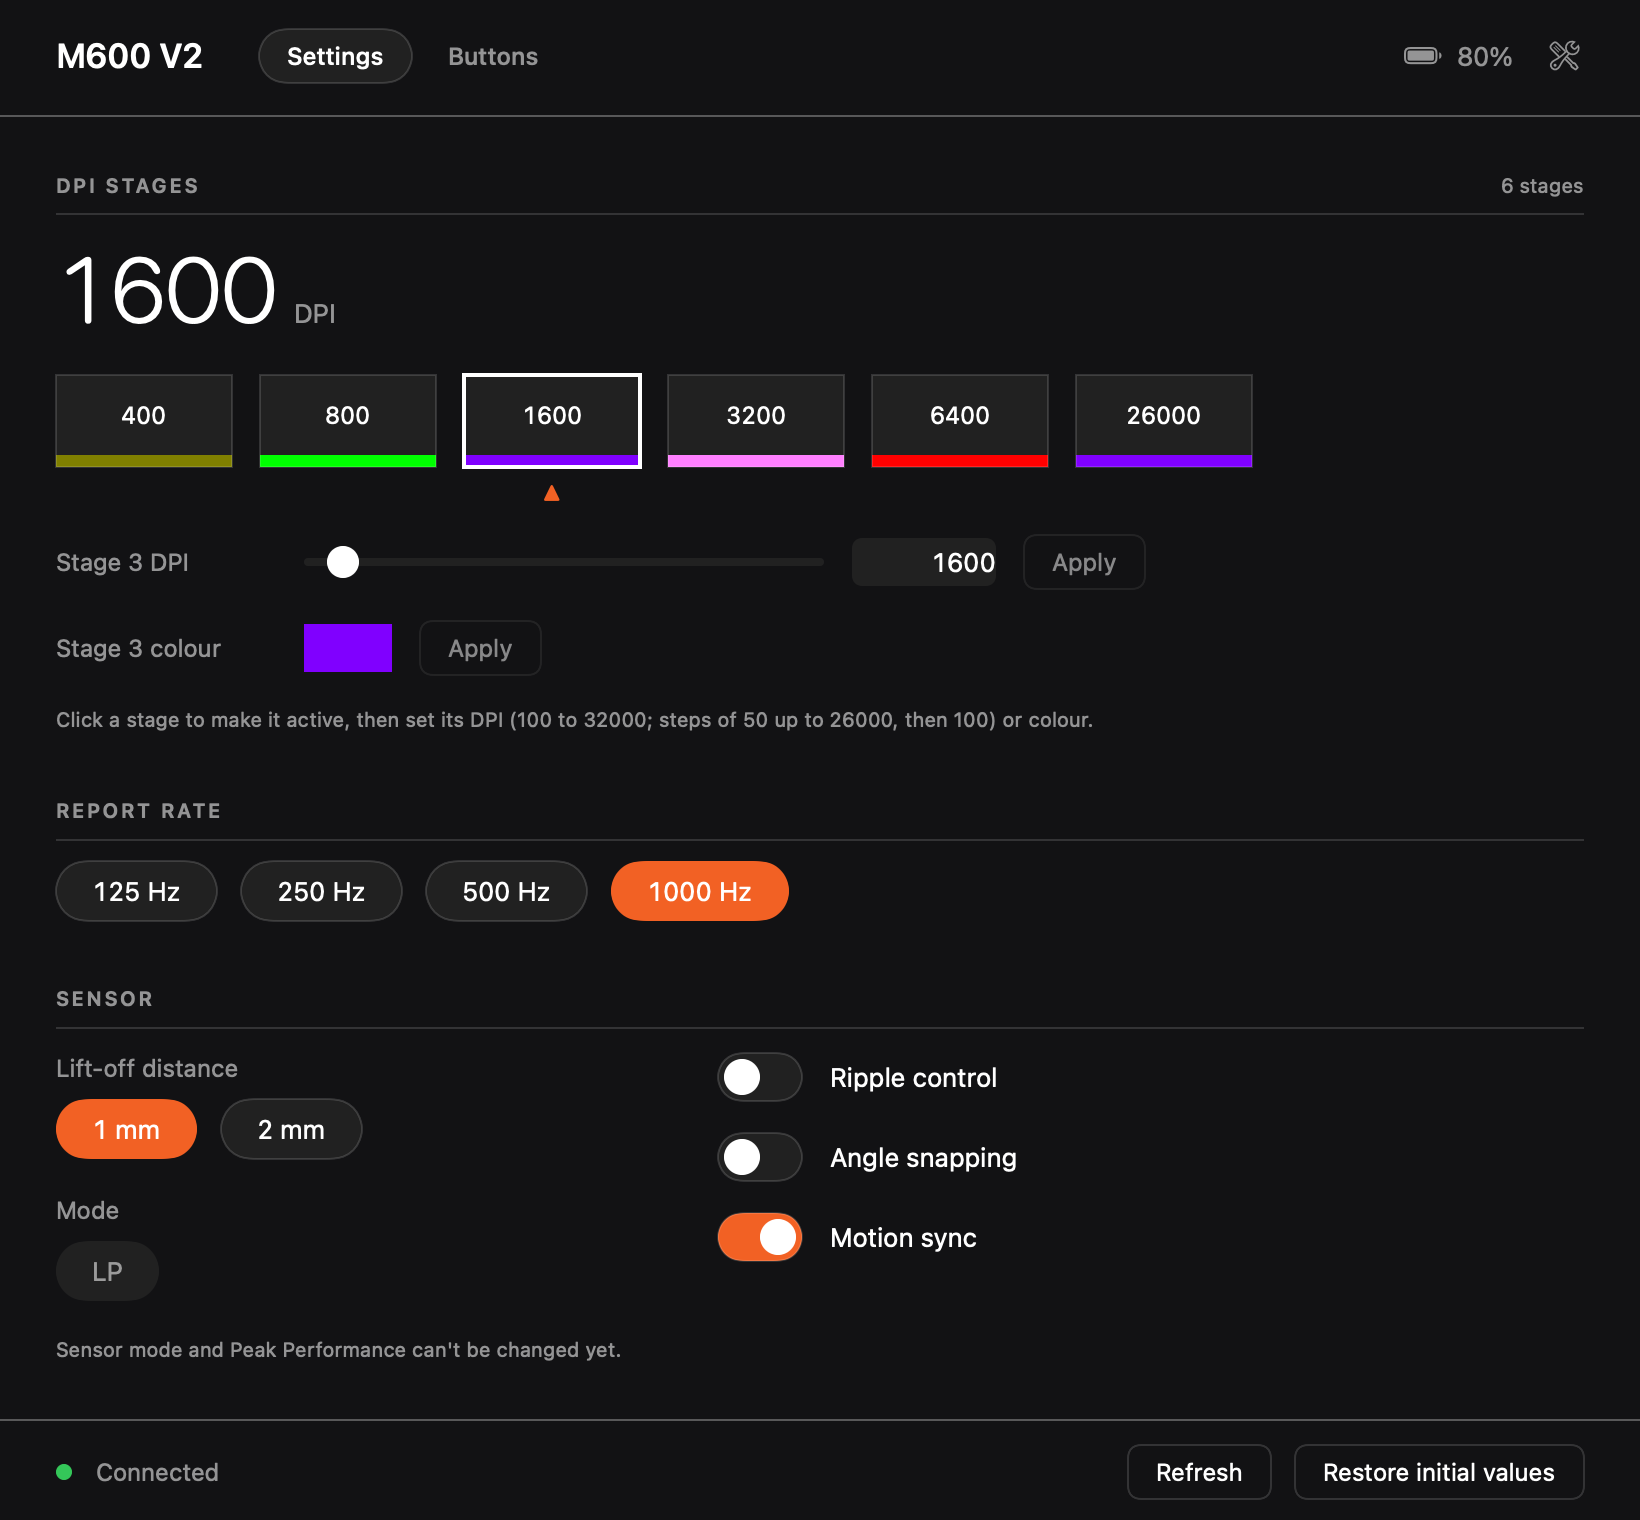
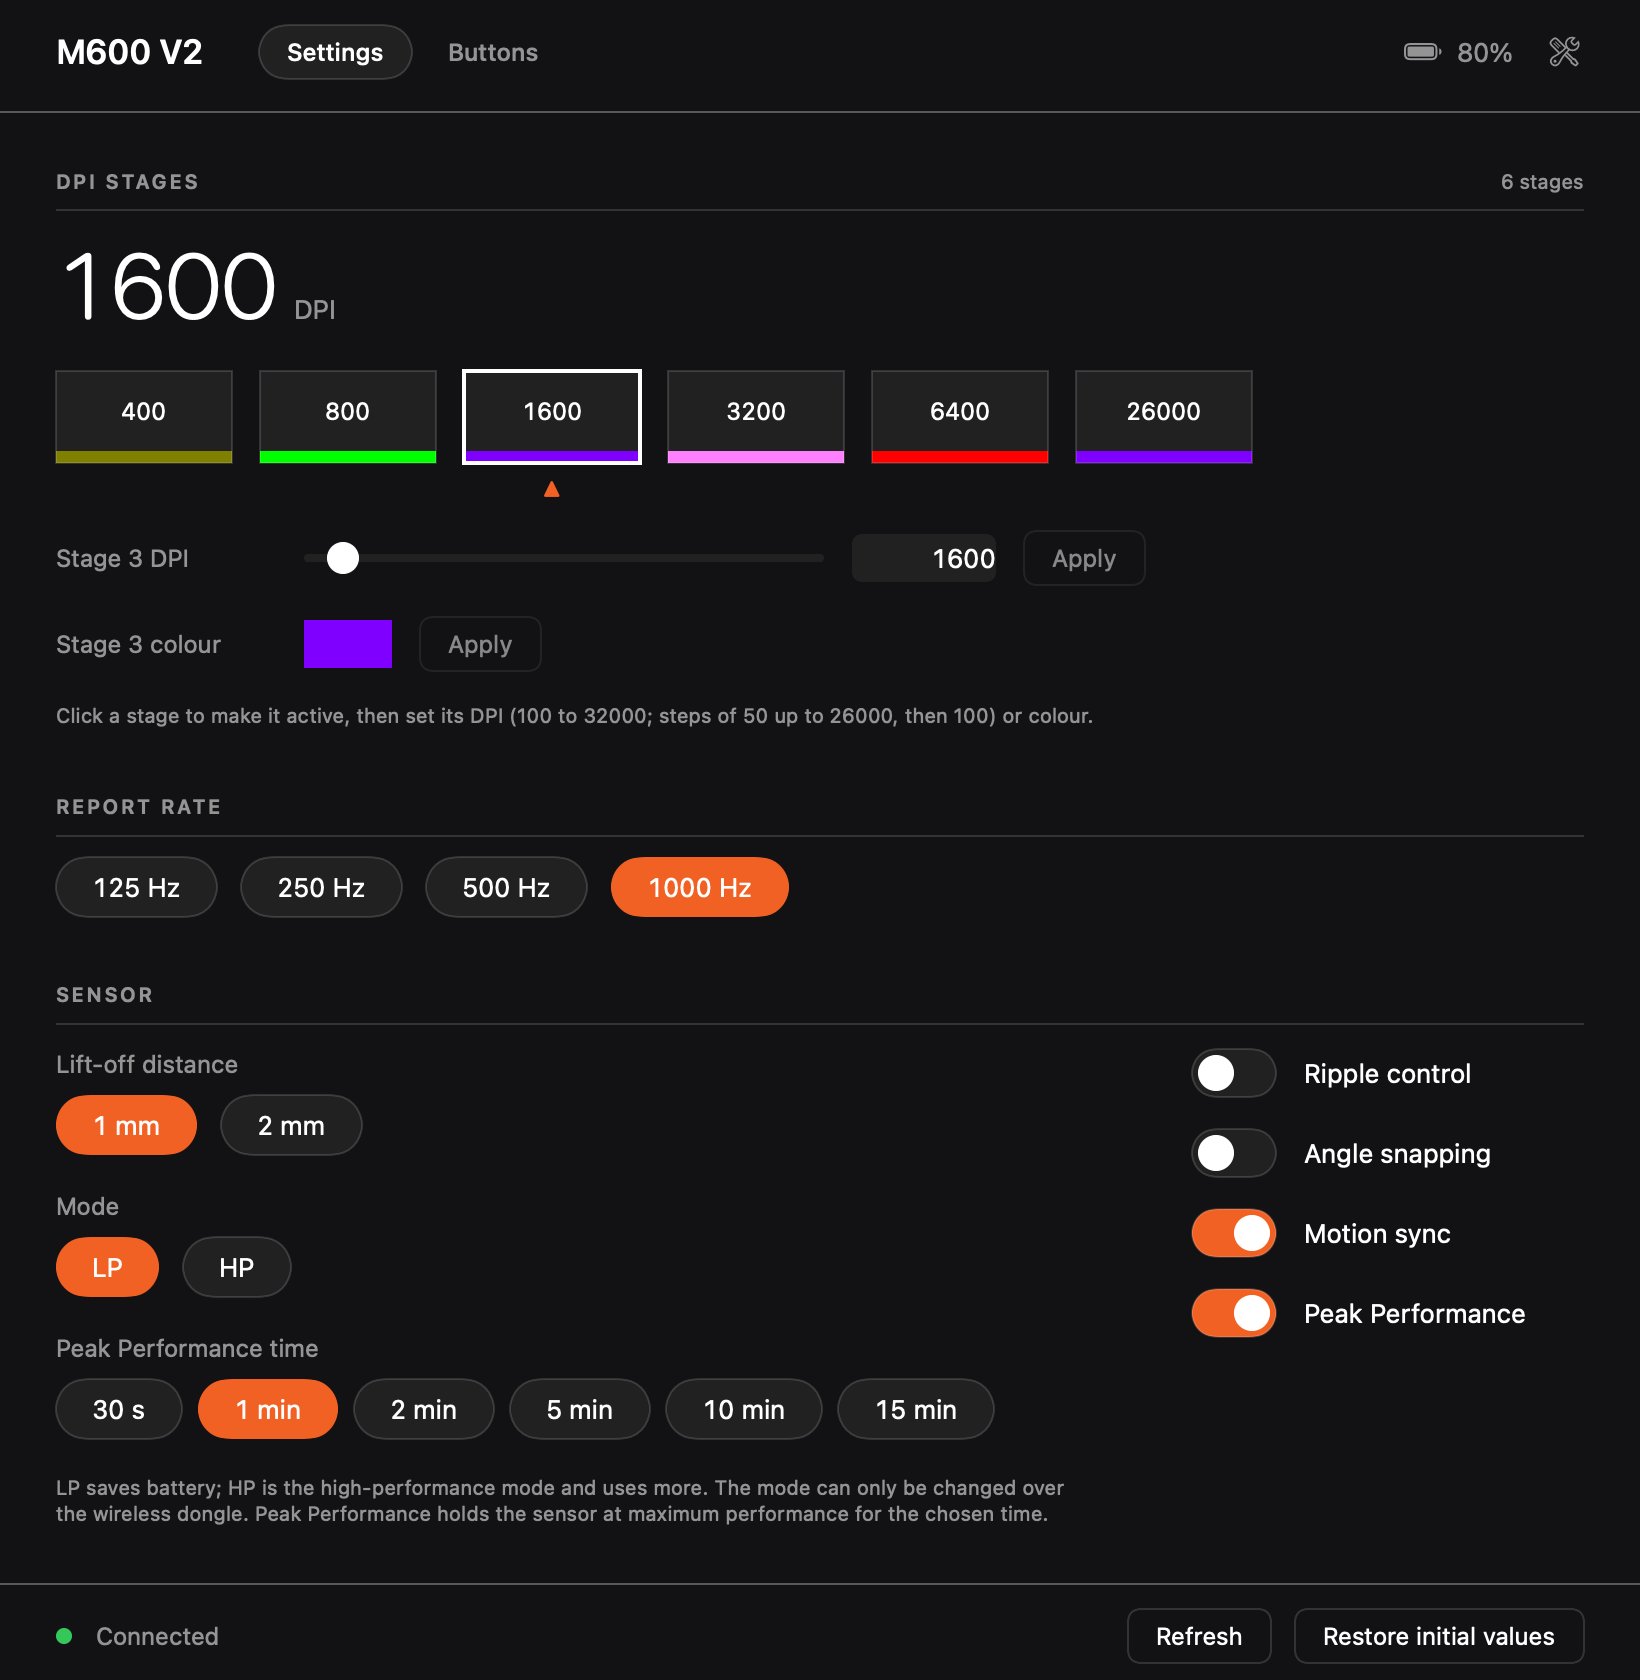
Add sensor mode (LP/HP) and Peak Performance controls
Registers and option values come from the vendor app's data model and language
file: sensor mode at 0xB9 (0 LP, 1 HP, 10 corded read-only), Peak Performance
on/off at 0xB5 and duration at 0xB7 (units of 10 s, 30 s to 15 min). Writes are
verified by echo and read-back and covered by Restore initial values. HP write
confirmed on the mouse.

diff --git a/Sources/OpenMouseApp/AppModel.swift b/Sources/OpenMouseApp/AppModel.swift
@@ -80,7 +80,10 @@ final class AppModel: ObservableObject {
         var motionSync: UInt8
         var angleSnapping: UInt8
         var rippleControl: UInt8
-        var sensorMode: UInt8   // 0 = LP; HP value unconfirmed, so read-only
+        var sensorMode: UInt8   // 0 = LP, 1 = HP, 10 = corded (read-only)
+        /// Nil if the mouse didn't answer these with a valid checksum.
+        var peakPerformance: UInt8?
+        var peakTime: UInt8?
     }
 
     @Published var settings: SettingsSnapshot?
@@ -106,7 +109,9 @@ final class AppModel: ObservableObject {
         }
         return SettingsSnapshot(reportRate: v[.reportRate]!, dpiStage: v[.currentDPIIndex]!, lod: v[.lod]!,
                                 motionSync: v[.motionSync]!, angleSnapping: v[.angleSnapping]!,
-                                rippleControl: v[.rippleControl]!, sensorMode: v[.sensorMode]!)
+                                rippleControl: v[.rippleControl]!, sensorMode: v[.sensorMode]!,
+                                peakPerformance: try await device.readValue(.peakPerformance),
+                                peakTime: try await device.readValue(.peakPerformanceTime))
     }
 
     func refreshSettings() {
@@ -241,8 +246,11 @@ final class AppModel: ObservableObject {
                     (.lod, "LOD", now.lod, target.lod),
                     (.motionSync, "motion sync", now.motionSync, target.motionSync),
                     (.angleSnapping, "angle snapping", now.angleSnapping, target.angleSnapping),
-                    (.rippleControl, "ripple control", now.rippleControl, target.rippleControl)]
-                for (setting, name, current, wanted) in pairs where current != wanted {
+                    (.rippleControl, "ripple control", now.rippleControl, target.rippleControl),
+                    (.sensorMode, "sensor mode", now.sensorMode, target.sensorMode),
+                    (.peakPerformance, "peak performance", now.peakPerformance ?? 0, target.peakPerformance ?? 0),
+                    (.peakPerformanceTime, "peak performance time", now.peakTime ?? 0, target.peakTime ?? 0)]
+                for (setting, name, current, wanted) in pairs where current != wanted && setting.accepts(wanted) {
                     try await writeAndVerify(setting, wanted, name: name)
                 }
                 settings = try await loadSettings()
@@ -281,7 +289,8 @@ final class AppModel: ObservableObject {
                 }
                 for (name, setting) in [("LOD (1=1mm, 2=2mm)", MouseSetting.lod),
                                         ("motion sync", .motionSync), ("angle snapping", .angleSnapping),
-                                        ("ripple control", .rippleControl), ("sensor mode (0=LP)", .sensorMode)] {
+                                        ("ripple control", .rippleControl), ("sensor mode (0=LP, 1=HP, 10=corded)", .sensorMode),
+                                        ("peak performance", .peakPerformance), ("peak performance time (x10 s)", .peakPerformanceTime)] {
                     let v = try await device.readValue(setting)
                     append("\(name): \(v.map(String.init) ?? "bad checksum")")
                 }
@@ -311,7 +320,8 @@ extension AppModel {
         m.isOpen = true
         m.status = "Connected"
         m.settings = SettingsSnapshot(reportRate: 0x01, dpiStage: 2, lod: 1, motionSync: 1,
-                                      angleSnapping: 0, rippleControl: 0, sensorMode: 0)
+                                      angleSnapping: 0, rippleControl: 0, sensorMode: 0,
+                                      peakPerformance: 1, peakTime: 6)
         let table: [(Int, UInt8, UInt8, UInt8)] = [(400, 0x80, 0x80, 0), (800, 0, 0xFF, 0), (1600, 0x80, 0, 0xFF),
                                                    (3200, 0xFF, 0x80, 0xFF), (6400, 0xFF, 0, 0), (26000, 0x80, 0, 0xFF)]
         m.stages = table.map { MouseDevice.Stage(dpi: DPIEntry(x: $0.0, y: $0.0), color: DPIColor(r: $0.1, g: $0.2, b: $0.3)) }

diff --git a/Sources/OpenMouseApp/MouseView.swift b/Sources/OpenMouseApp/MouseView.swift
@@ -278,26 +278,40 @@ struct MouseView: View {
                         }
                     }
                     labelled("Mode") {
-                        Text(sensorModeText).padding(.horizontal, 18).padding(.vertical, 7)
-                            .background(Theme.panel, in: Capsule()).foregroundStyle(Theme.dim)
+                        HStack(spacing: 12) {
+                            pill("LP", selected: model.settings?.sensorMode == 0) { model.change(.sensorMode, to: 0, name: "sensor mode") }
+                            pill("HP", selected: model.settings?.sensorMode == 1) { model.change(.sensorMode, to: 1, name: "sensor mode") }
+                            if let mode = model.settings?.sensorMode, mode > 1 {
+                                Text(mode == 10 ? "Corded" : "Mode \(mode)").foregroundStyle(Theme.dim)
+                            }
+                        }
                     }
-                    Text("Sensor mode and Peak Performance can't be changed yet.")
+                    if let peak = model.settings?.peakPerformance {
+                        labelled("Peak Performance time") {
+                            HStack(spacing: 8) {
+                                ForEach(PeakDuration.allCases, id: \.rawValue) { d in
+                                    pill(d.title, selected: model.settings?.peakTime == d.rawValue) {
+                                        model.change(.peakPerformanceTime, to: d.rawValue, name: "peak performance time")
+                                    }
+                                    .disabled(peak == 0)
+                                }
+                            }
+                        }
+                    }
+                    Text("LP saves battery; HP is the high-performance mode and uses more. The mode can only be changed over the wireless dongle. Peak Performance holds the sensor at maximum performance for the chosen time.")
                         .font(.caption).foregroundStyle(Theme.dim)
+                        .fixedSize(horizontal: false, vertical: true)
+                        .frame(maxWidth: 520, alignment: .leading)
                 }
                 VStack(alignment: .leading, spacing: 16) {
                     switchRow("Ripple control", model.settings?.rippleControl, .rippleControl)
                     switchRow("Angle snapping", model.settings?.angleSnapping, .angleSnapping)
                     switchRow("Motion sync", model.settings?.motionSync, .motionSync)
+                    if model.settings?.peakPerformance != nil {
+                        switchRow("Peak Performance", model.settings?.peakPerformance, .peakPerformance)
+                    }
                 }
             }
-        }
-    }
-
-    private var sensorModeText: String {
-        switch model.settings?.sensorMode {
-        case 0: return "LP"
-        case .some(let v): return "Mode \(v)"
-        case nil: return "–"
         }
     }
 

diff --git a/Sources/OpenMouseKit/Protocol.swift b/Sources/OpenMouseKit/Protocol.swift
@@ -94,19 +94,23 @@ public enum Protocol {
         case motionSync = 0x00AB       // 1 = on
         case angleSnapping = 0x00AF    // 1 = on
         case rippleControl = 0x00B1    // 1 = on
-        /// 0 = LP (read back as 00). The app sent 01 (HP) while the mouse was asleep, got no
-        /// acknowledgement and reverted, so 01 = HP is unconfirmed.
+        /// 0 = LP, 1 = HP (vendor app's language file); 10 = corded, which the vendor app shows
+        /// but never writes. Only changeable over the wireless dongle.
         case sensorMode = 0x00B9
+        /// Peak Performance on/off (`sensorCustomSleepTimeEnable` in the vendor app's data model).
+        case peakPerformance = 0x00B5
+        /// How long Peak Performance lasts, a `PeakDuration` value (`sensorSleepTime`).
+        case peakPerformanceTime = 0x00B7
 
         /// Values the vendor app was seen to write (or that are valid for the control).
-        /// Sensor mode is never accepted: its HP value is unconfirmed.
         public func accepts(_ value: UInt8) -> Bool {
             switch self {
             case .reportRate: return ReportRate(rawValue: value) != nil
             case .currentDPIIndex: return Int(value) < StageTable.stageCount
             case .lod: return (1...2).contains(value)
             case .motionSync, .angleSnapping, .rippleControl: return value <= 1
-            case .sensorMode: return false
+            case .sensorMode, .peakPerformance: return value <= 1
+            case .peakPerformanceTime: return PeakDuration(rawValue: value) != nil
             }
         }
     }

diff --git a/Tests/OpenMouseKitTests/ProtocolTests.swift b/Tests/OpenMouseKitTests/ProtocolTests.swift
@@ -167,7 +167,20 @@ final class ProtocolTests: XCTestCase {
         XCTAssertTrue(MouseSetting.lod.accepts(2))
         XCTAssertFalse(MouseSetting.lod.accepts(0))
         XCTAssertFalse(MouseSetting.rippleControl.accepts(2))
-        XCTAssertFalse(MouseSetting.sensorMode.accepts(0))
+        XCTAssertTrue(MouseSetting.sensorMode.accepts(0))   // LP
+        XCTAssertTrue(MouseSetting.sensorMode.accepts(1))   // HP
+        XCTAssertFalse(MouseSetting.sensorMode.accepts(10)) // corded: shown, never written
+        XCTAssertTrue(MouseSetting.peakPerformance.accepts(1))
+        XCTAssertFalse(MouseSetting.peakPerformance.accepts(2))
+        XCTAssertEqual(PeakDuration.allCases.map(\.rawValue), [3, 6, 12, 30, 60, 90])
+        for v in UInt8(0)...100 {
+            XCTAssertEqual(MouseSetting.peakPerformanceTime.accepts(v), PeakDuration(rawValue: v) != nil)
+        }
+        // Addresses follow the vendor data model's two-byte pairs after ripple control (0xB1).
+        XCTAssertEqual([MouseSetting.peakPerformance, .peakPerformanceTime, .sensorMode].map(\.rawValue), [0xB5, 0xB7, 0xB9])
+        // HP write: 08 07 00 00 B9 02 01 54 ...
+        XCTAssertEqual(Array(Protocol.writeValue(address: MouseSetting.sensorMode.rawValue, value: 1)[0..<8]),
+                       [0x08, 0x07, 0x00, 0x00, 0xB9, 0x02, 0x01, 0x54])
     }
 
     func testDPIStageWriteMatchesCapture() {

diff --git a/Sources/OpenMouseKit/Parsers.swift b/Sources/OpenMouseKit/Parsers.swift
@@ -127,6 +127,23 @@ public enum StageTable {
     public static func colorAddress(stage: Int) -> UInt16 { UInt16(0x2C + 4 * stage) }
 }
 
+/// Peak Performance durations from the vendor app's language file; the stored value is in units
+/// of 10 seconds.
+public enum PeakDuration: UInt8, CaseIterable {
+    case seconds30 = 3, minute1 = 6, minutes2 = 12, minutes5 = 30, minutes10 = 60, minutes15 = 90
+
+    public var title: String {
+        switch self {
+        case .seconds30: return "30 s"
+        case .minute1: return "1 min"
+        case .minutes2: return "2 min"
+        case .minutes5: return "5 min"
+        case .minutes10: return "10 min"
+        case .minutes15: return "15 min"
+        }
+    }
+}
+
 /// Report rate at flash 0x0000: a one-hot byte (value, then checksum at 0x0001).
 /// The mouse's own button cycles it 125 -> 250 -> 500 -> 1000 Hz and wraps.
 public enum ReportRate: UInt8, CaseIterable {

diff --git a/Sources/OpenMouseApp/OpenMouseApp.swift b/Sources/OpenMouseApp/OpenMouseApp.swift
@@ -24,7 +24,7 @@ private func renderPreviewIfRequested() {
     let buttons = args.count > i + 2 && args[i + 2] == "buttons"
     let renderer = ImageRenderer(content: MouseView(scrollable: false, tab: buttons ? .buttons : .settings)
         .environmentObject(AppModel.demo())
-        .frame(width: 820, height: buttons ? 640 : 760))
+        .frame(width: 820, height: buttons ? 640 : 840))
     renderer.scale = 2
     if let tiff = renderer.nsImage?.tiffRepresentation, let rep = NSBitmapImageRep(data: tiff),
        let png = rep.representation(using: .png, properties: [:]) {

diff --git a/PROTOCOL_NOTES.md b/PROTOCOL_NOTES.md
@@ -172,3 +172,7 @@ Dump of the test mouse (slots from 0x60): left, right, middle, back (`01 08`), f
 ## Stage DPI encoding (vendor app's data model, plus what the mouse reports)
 
 Entry `x y hi chk` at `0x0C + 4 * stage`, chk = `0x55 - (x + y + hi)`. The sensor is a "3395": code = `x | (hi bits 3:2) << 8` (Y likewise with bits 7:6), DPI = `(code + 1) * 50`, then multiplied by 2 if `hi & 0x22` and again by 2 if `hi & 0x11`. The vendor app writes values up to 26000 with `hi` = top bits only, and 26100..32000 (steps of 100) as code = `DPI / 100 - 1` with the `0x11` flag set. The user reports 100 as the minimum and 32000 as the maximum. The factory entries read from the mouse match the encoder byte for byte up to 26000; the 0x11 range is written as the vendor app's code does it, and 32000 was tried on the test mouse and works.
+
+## Sensor mode and Peak Performance (vendor data model and language file)
+
+Same value/checksum pair layout as the other settings, in the order of the vendor app's `MouseConfig` fields after ripple control (`0xB1`): `0xB3` move-off LED, `0xB5` Peak Performance on/off (`sensorCustomSleepTimeEnable`, 0/1), `0xB7` Peak Performance duration (`sensorSleepTime`, units of 10 s: 3 = 30 s, 6 = 1 min, 12 = 2 min, 30 = 5 min, 60 = 10 min, 90 = 15 min), `0xB9` sensor mode (`sensorPowerSavingModeEnable`: 0 = LP, 1 = HP, 10 = corded). The vendor app only lets the mode be set in wireless mode ("Must be in wireless mode to set"), disables the duration dropdown while Peak Performance is off, and never writes the corded value. The mode selector is listed for sensors 3395, 3311, 3370 and 3335 in its `driver_sensor.h`. The earlier unconfirmed HP write (while the mouse was asleep, no acknowledgement) is explained by the sleeping mouse, not by a wrong value. Confirmed on the test mouse: writing `01` to `0xB9` was echoed and read back as 1 (HP), and `0xB5` and `0xB7` read as valid pairs (`00 55` = off, `06 4F` = 1 min, the vendor default).

diff --git a/README.md b/README.md
@@ -19,7 +19,7 @@ and the wired mouse use the same vendor ID and are matched, but are untested.
 | Report rate 125 / 250 / 500 / 1000 Hz | yes | yes |
 | Lift-off distance 1 / 2 mm | yes | yes |
 | Ripple control, angle snapping, motion sync | yes | yes |
-| Sensor mode (LP / HP), Peak Performance | LP only | no |
+| Sensor mode (LP / HP), Peak Performance on/off and duration | yes | yes (wireless only for the mode) |
 | Battery | yes (meaning of the bytes is inferred) | – |
 | Button remaps (clicks, DPI, scroll, report rate, profile, disable) | yes | yes (six physical buttons) |
 | Macros, shortcuts, fire key, LED settings | not decoded yet | no |
